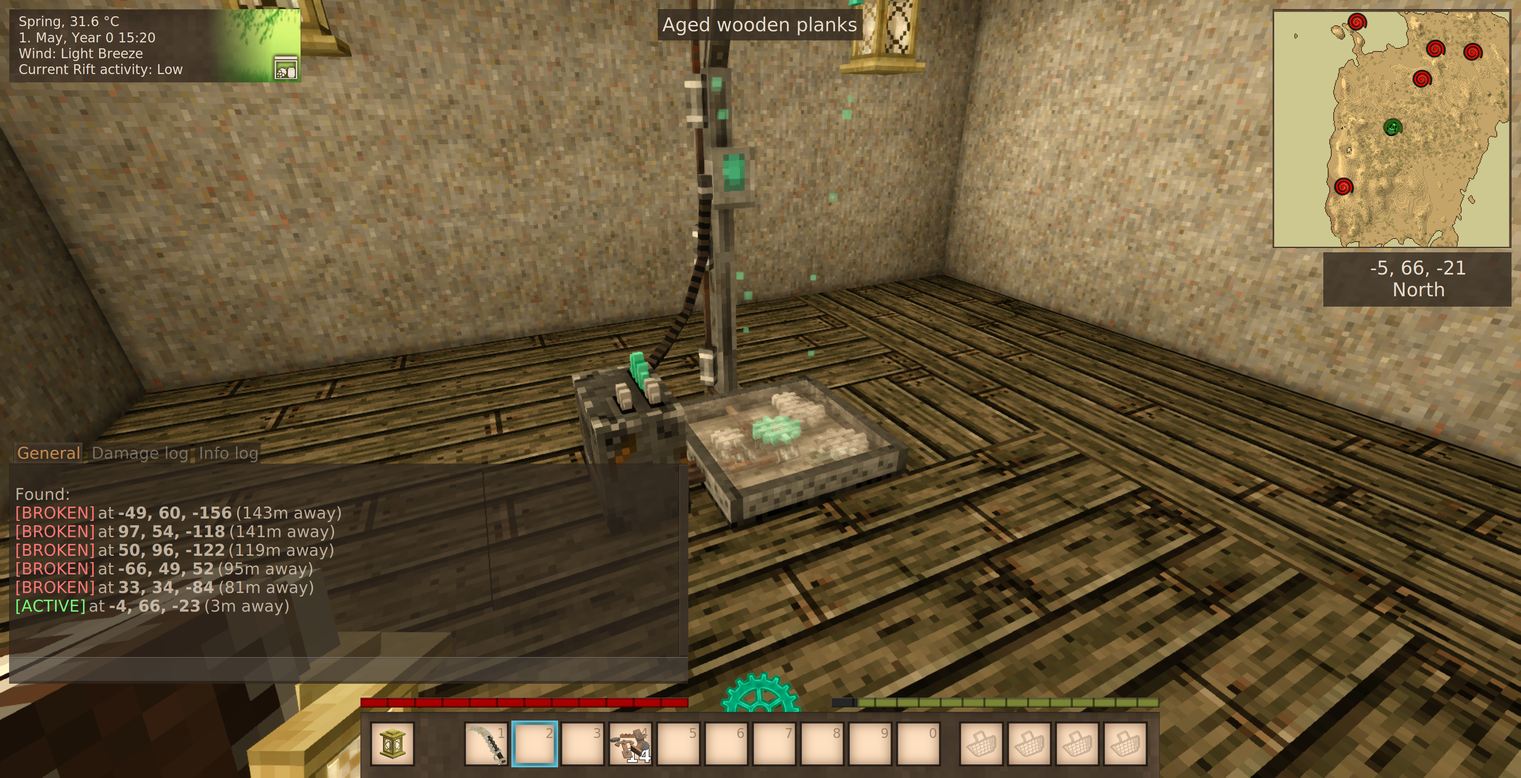
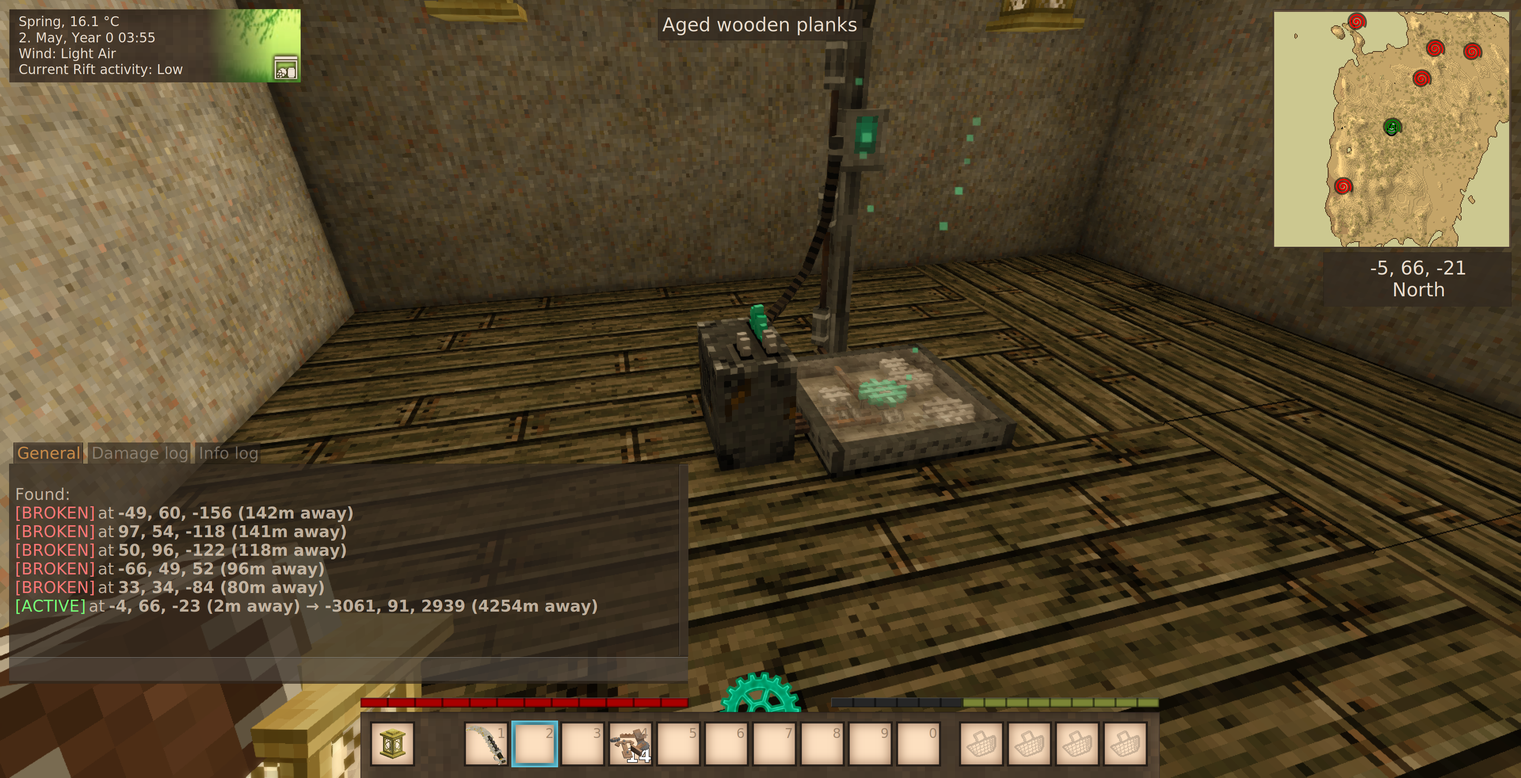
Now checks connected translocator

diff --git a/VSTutorial/VSTutorialModSystem.cs b/VSTutorial/VSTutorialModSystem.cs
@@ -1,44 +1,84 @@
-using System;
+#nullable enable
+
+using System;
 using System.Collections.Generic;
 using Vintagestory.API.Client;
 using Vintagestory.API.Common;
 using Vintagestory.API.MathTools;
+using Vintagestory.GameContent;
 using System.Linq;
 
 namespace VSTutorial
 {
+    public class RelativePointDistance
+    {
+        public BlockPos MapMiddle { get; }
+        public BlockPos Pos { get; }
+        public int RelativeX => Pos.X - MapMiddle.X;
+        public int RelativeY => Pos.Y;
+        public int RelativeZ => Pos.Z - MapMiddle.Z;
+
+        public RelativePointDistance(BlockPos mapMiddle, BlockPos pos)
+        {
+            MapMiddle = mapMiddle;
+            Pos = pos;
+        }
+
+        public double DistanceTo(BlockPos other)
+        {
+            return Math.Sqrt(Pos.DistanceSqTo(other.X, other.Y, other.Z));
+        }
+        
+        public string ToWaypointString(string wpColor, string wpName)
+        {
+            return $"/waypoint addati spiral ={Pos.X} ={Pos.Y} ={Pos.Z} false {wpColor} {wpName}";
+        }
+    }
+    
     public class TranslocatorResult
     {
+        public BlockPos PlayerPos;
         public bool IsRepaired { get;  }
-        public double Distance { get; }
-        public int UserX { get; }
-        public int UserY { get; }
-        public int UserZ { get; }
+        public RelativePointDistance Source { get; }
+        public RelativePointDistance? Destination { get; }
+        public int Distance => (int)Source.DistanceTo(PlayerPos);
         
-
-        public TranslocatorResult(bool isRepaired, double distance, int userX, int userY, int userZ)
+        public TranslocatorResult(BlockPos mapMiddle, BlockPos source, BlockPos? destination, BlockPos playerPos, bool isRepaired)
         {
-            this.IsRepaired = isRepaired;
-            this.Distance = distance;
-            this.UserX = userX;
-            this.UserY = userY;
-            this.UserZ = userZ;
+            Source = new RelativePointDistance(mapMiddle, source);
+            Destination = destination == null ? null: new RelativePointDistance(mapMiddle, destination);
+            PlayerPos = playerPos;
+            IsRepaired = isRepaired;
         }
         
         public string ToChatString()
         {
             string color = IsRepaired ? "#77ff77" : "#ff7777";
             string status = IsRepaired ? "ACTIVE" : "BROKEN";
+            
+            string destinationResult = Destination == null ? "": $" → {Destination.RelativeX}, {Destination.RelativeY}, {Destination.RelativeZ} ({(int)Destination.DistanceTo(PlayerPos)}m away)";
+            
             return $"<font color=\"{color}\">[{status}]</font> " +
-                   $"at <strong>{UserX}, {UserY}, {UserZ}</strong> ({(int)Distance}m away)";
+                   $"at <strong>{Source.RelativeX}, {Source.RelativeY}, {Source.RelativeZ} ({Distance}m away){destinationResult}</strong>";
         }
 
-        public string ToWaypointString()
+        public string SourceToWaypointString()
         {
             string wpColor = IsRepaired ? "green" : "red";
             string wpName = IsRepaired ? "Active Translocator" : "Broken Translocator";
-            return $"/waypoint addati spiral {UserX} {UserY} {UserZ} false {wpColor} {wpName}";
+
+            return Source.ToWaypointString(wpColor, wpName);
         }
+        
+        public string DestinationToWaypointString()
+        {
+            if (Destination == null)
+            {
+                return "";
+            }
+            return Destination.ToWaypointString("green", "Active Translocator");
+        }
+        
     }
     
     public class VsTutorialModSystem : ModSystem
@@ -72,28 +112,45 @@ namespace VSTutorial
                 return TextCommandResult.Error("Player not found.");
             }
 
-            BlockPos pPos = _api.World.Player.Entity.Pos.AsBlockPos;
+            BlockPos playerPos = _api.World.Player.Entity.Pos.AsBlockPos;
             BlockPos mapMiddle = _api.World.DefaultSpawnPosition.AsBlockPos;
             List<TranslocatorResult> results = new List<TranslocatorResult>();
             
-            _api.World.BlockAccessor.SearchBlocks(pPos.AddCopy(-radius, -radius, -radius), pPos.AddCopy(radius, radius, radius), (block, pos) =>
+            _api.World.BlockAccessor.SearchBlocks(playerPos.AddCopy(-radius, -radius, -radius), playerPos.AddCopy(radius, radius, radius), (block, pos) =>
             {
                 if (!block.Code.Path.StartsWith("statictranslocator"))
                 {
                     return true;
                 }
+
+                bool isRepaired = false;
+
+                if (block.Code.Path.StartsWith("statictranslocator-broken"))
+                {
+                    isRepaired = false;
+                }
+                else if(block.Code.Path.StartsWith("statictranslocator-normal"))
+                {
+                    isRepaired = true;
+                }
+
+                BlockPos destination = null;
+                
+                if (block is BlockStaticTranslocator translocatorBlock)
+                {
+                    isRepaired = translocatorBlock.Repaired;
+                    _api.Logger.Debug("[Translocator Locator] Found repaired status: {0} for {1}", translocatorBlock.Repaired, pos);
+                    BlockEntity be = _api.World.BlockAccessor.GetBlockEntity(pos);
+                    if (be is BlockEntityStaticTranslocator translocator)
+                    {
+                        destination = translocator.TargetLocation;
+                        _api.Logger.Debug("[Translocator Locator] Found destination: {0} for {1}", destination, pos);
+                    }
+                }
                 
                 _api.Logger.Debug("[Translocator Locator] Found translocator block: {0} at {1}", block.Code.Path, pos);
                 
-                bool isRepaired = !block.Code.Path.StartsWith("statictranslocator-broken") && block.Code.Path.StartsWith("statictranslocator-normal");
-                
-                // Define display variables
-                int userX = pos.X - mapMiddle.X;
-                int userY = pos.Y;
-                int userZ = pos.Z - mapMiddle.Z;
-                double dist = Math.Sqrt(pos.DistanceSqTo(pPos.X, pPos.Y, pPos.Z));
-                
-                TranslocatorResult result = new TranslocatorResult(isRepaired, dist, userX, userY, userZ);
+                TranslocatorResult result = new TranslocatorResult(mapMiddle, pos.Copy(), destination?.Copy(), playerPos.Copy(), isRepaired);
                 results.Add(result);
                     
                 return true; 
@@ -108,7 +165,12 @@ namespace VSTutorial
             {
                 if (addWaypoints)
                 {
-                    _api.SendChatMessage(result.ToWaypointString());
+                    _api.SendChatMessage(result.SourceToWaypointString());
+
+                    if (result.Destination != null)
+                    {
+                        _api.SendChatMessage(result.DestinationToWaypointString());
+                    }
                 }
                 messages.Add(result.ToChatString());
 
